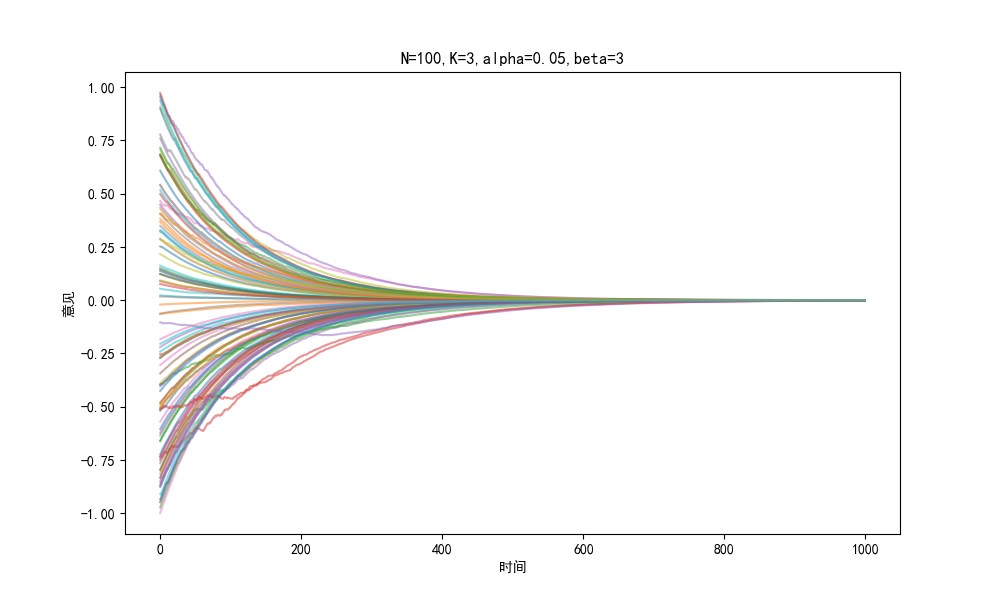
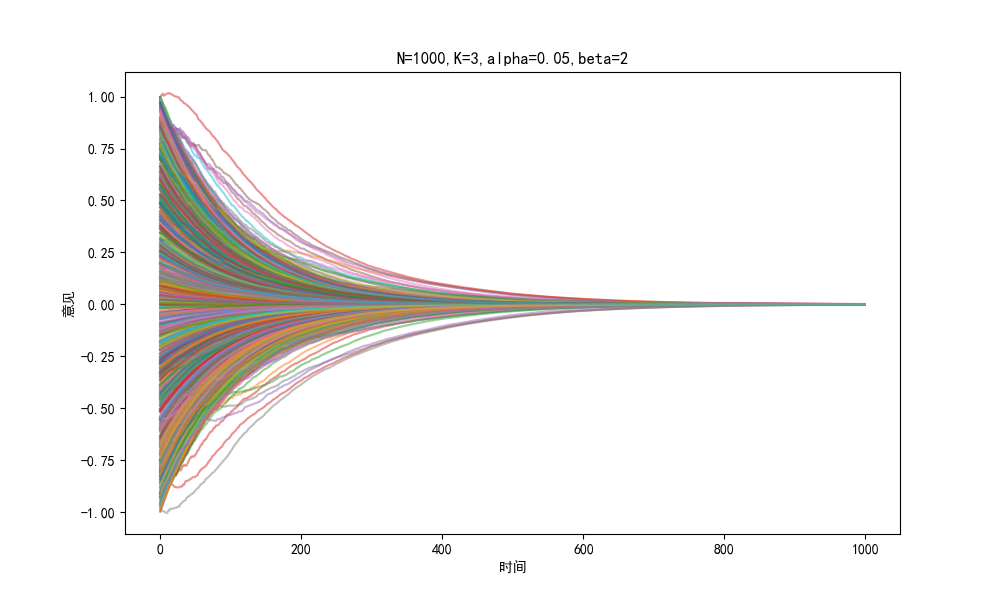
daily

diff --git a/main.py b/main.py
@@ -121,7 +121,7 @@ if __name__ == '__main__':
         "T": 1000,  # 时间步长
         "dt": 0.01,  # 时间步长
         "alpha": 3,  # 意见动态方程中的参数
-        "beta": 0,  # 控制代理人选择互动对象的概率
+        "beta": 3,  # 控制代理人选择互动对象的概率
         "K": 3,  # 意见动态方程中的参数
         "gamma": 2.1,  # 活动值分布的幂律指数
         "epsilon": 0.01,  # 活动值的最小值
@@ -130,5 +130,14 @@ if __name__ == '__main__':
     }
 
     func.opinions_draw(config)# 绘制 opinion 图
+
+    # config["alpha"], config["beta"] = 3, 0
+
+    # func.opinions_draw(config)# 绘制 opinion 图
+
+    # config["alpha"], config["beta"] = 3, 3
+
+    # func.opinions_draw(config)# 绘制 opinion 图
+
     # func.heatmap(lengh, config)# 绘制热力图
 
